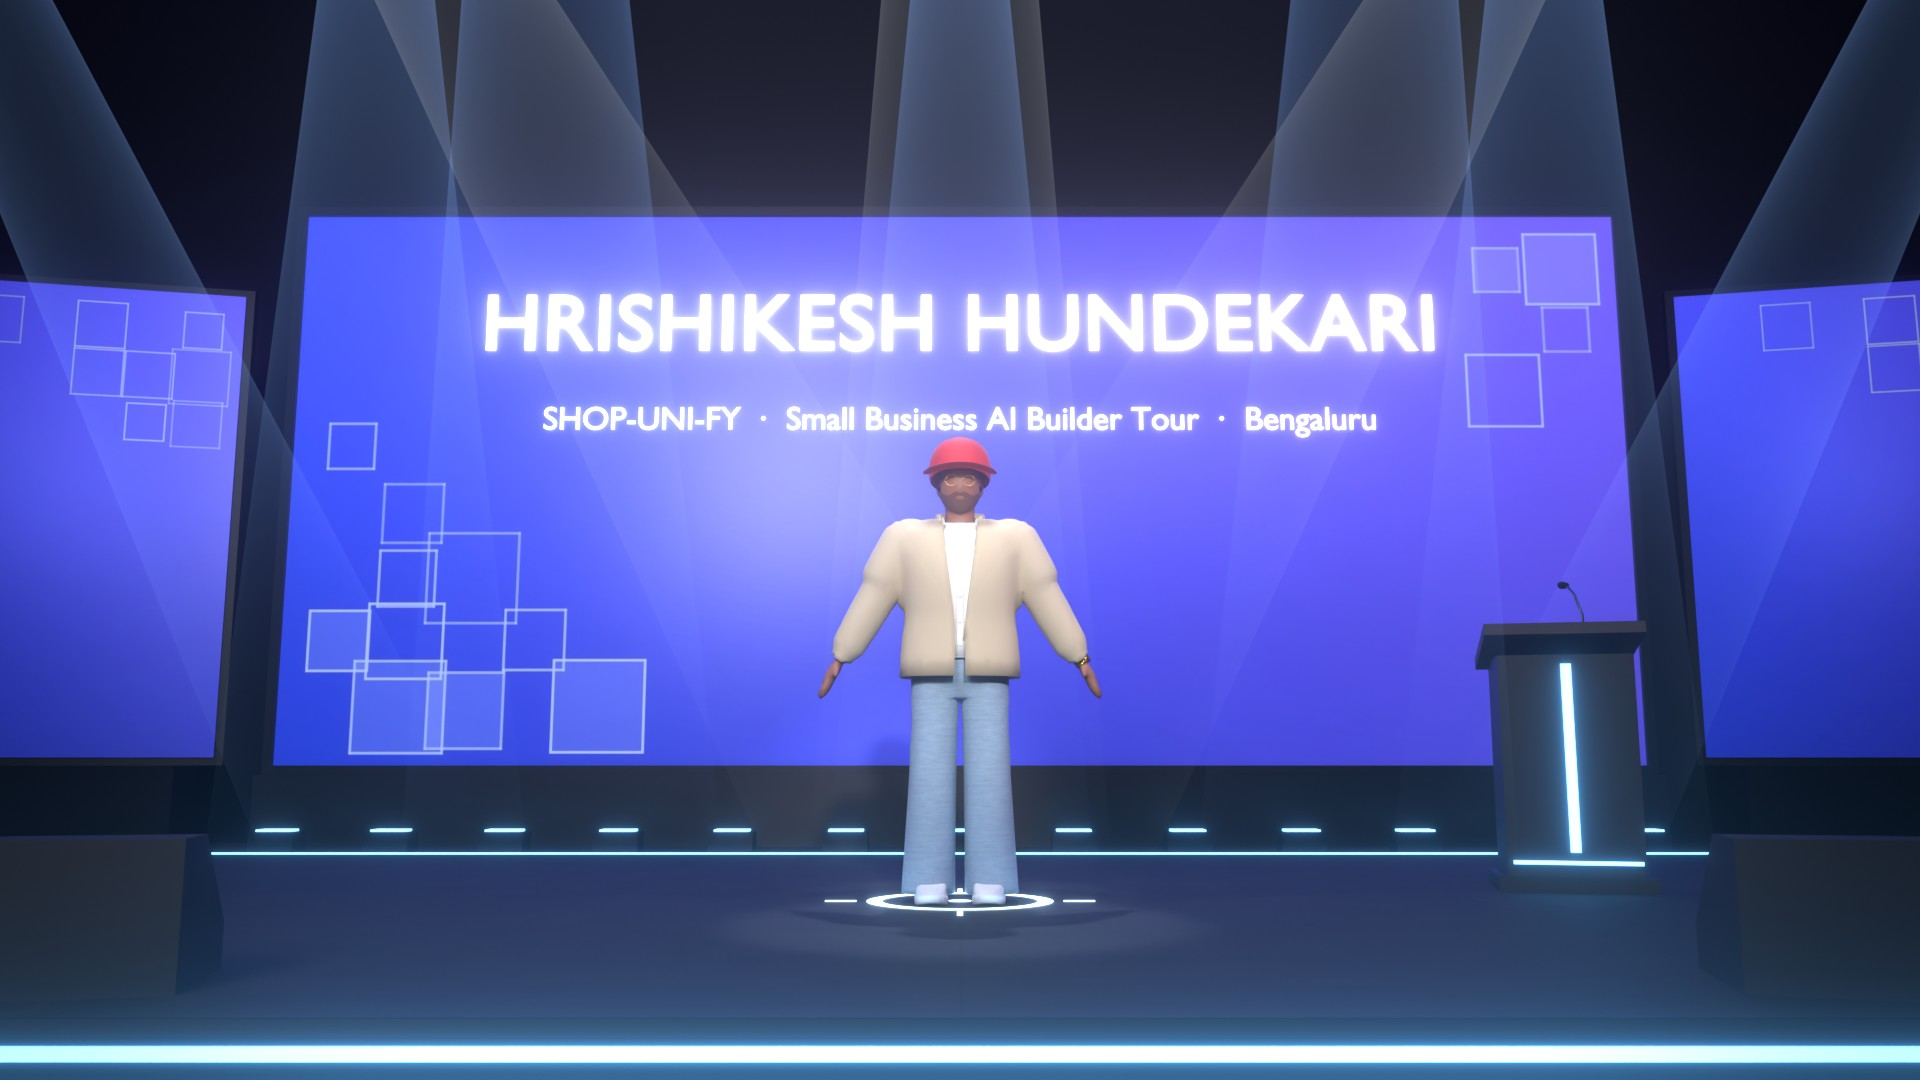
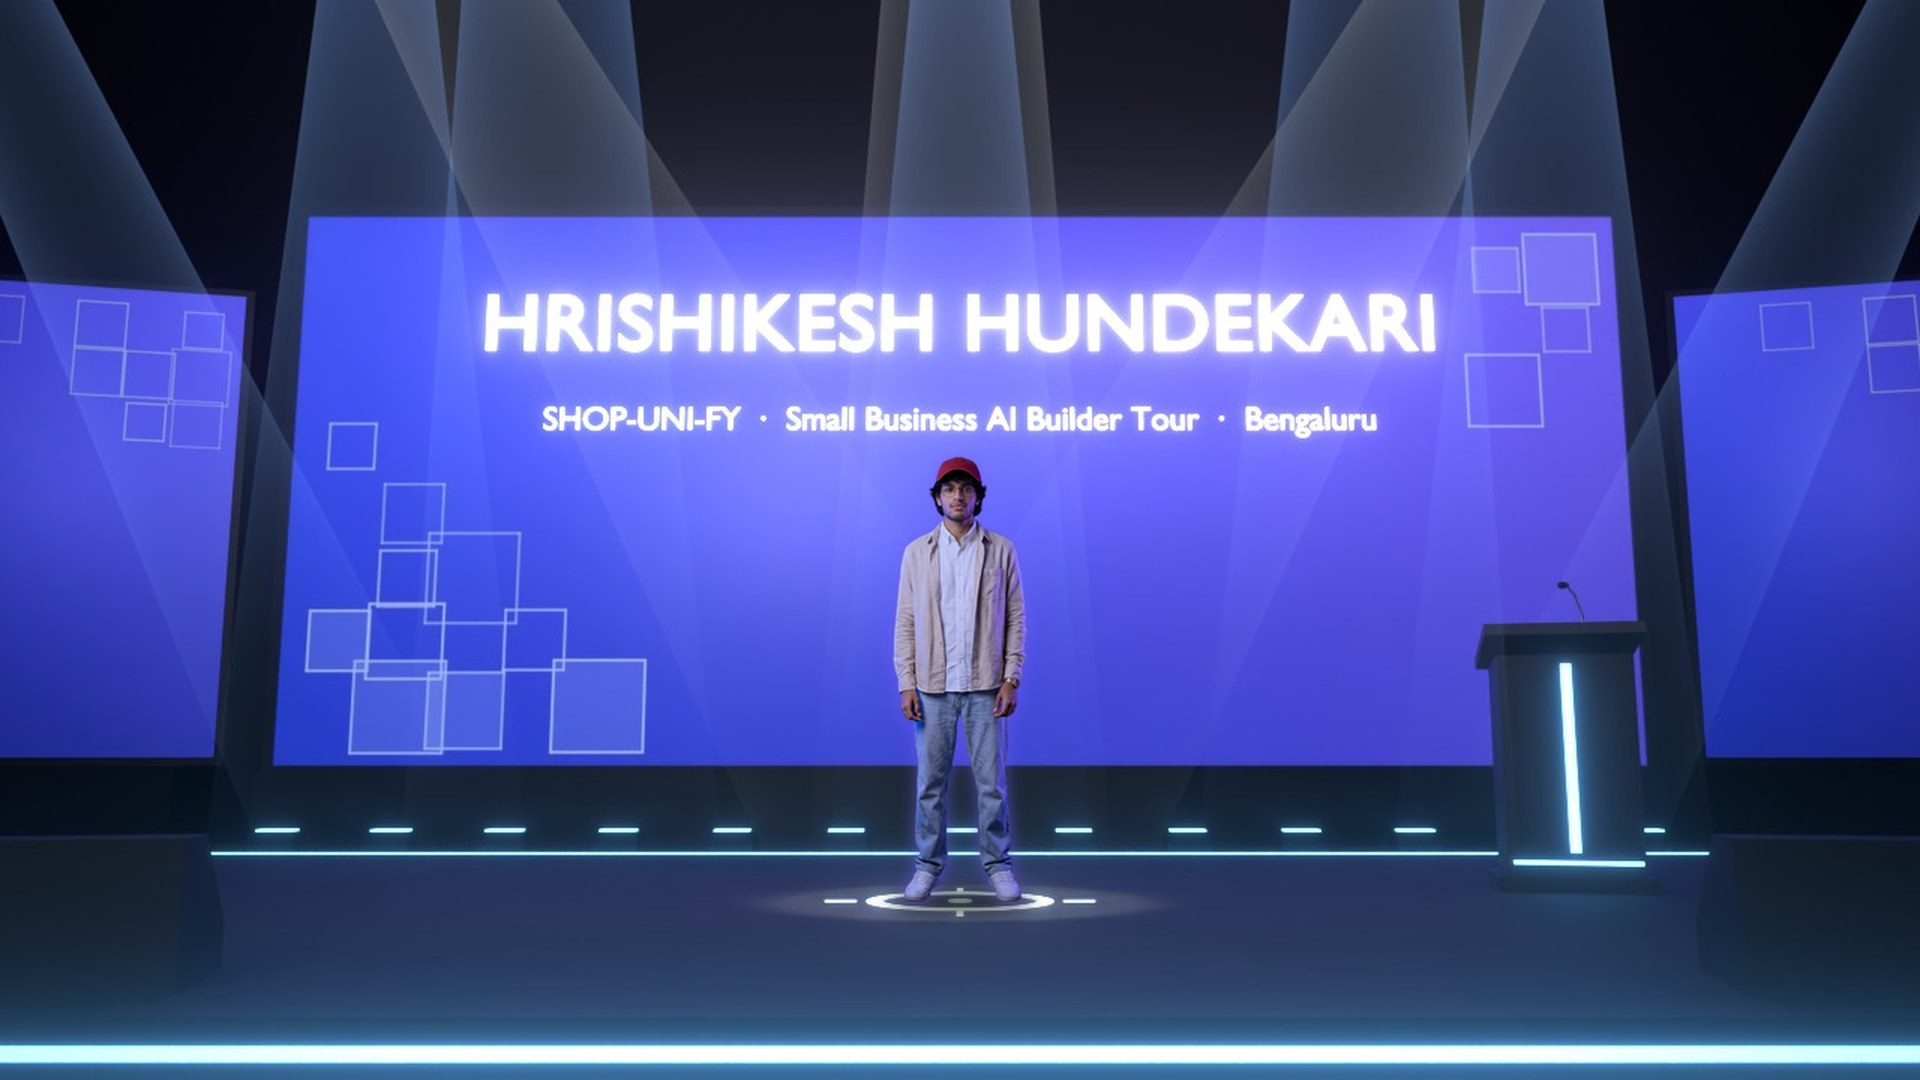
Photoreal hero.jpg (Stage Ready on today's stage); LED wall name high and canvas at the wall's 2.4:1

diff --git a/web/src/scene/ledTexture.ts b/web/src/scene/ledTexture.ts
@@ -38,20 +38,20 @@ function draw(c: HTMLCanvasElement) {
   let size = 230
   g.font = `400 ${size}px ${font}`
   while (g.measureText(SPEAKER).width > W * 0.88 && size > 40) { size -= 8; g.font = `400 ${size}px ${font}` }
-  g.fillText(SPEAKER, W / 2, H * 0.46)
+  g.fillText(SPEAKER, W / 2, H * 0.22) // high on the wall: clear of his head in every framing
   g.shadowBlur = 0
   let s2 = 58
   g.font = `600 ${s2}px 'Inter', system-ui, sans-serif`
   while (g.measureText(TALK_TITLE).width > W * 0.86 && s2 > 20) { s2 -= 2; g.font = `600 ${s2}px 'Inter', system-ui, sans-serif` }
   g.fillStyle = 'rgba(243,238,230,0.92)'
-  g.fillText(TALK_TITLE, W / 2, H * 0.66)
+  g.fillText(TALK_TITLE, W / 2, H * 0.39)
 }
 
 /** Wide canvas for the LED wall: cobalt-to-violet wash, outlined squares, speaker name and talk line. Text only. */
 export function ledTexture(): CanvasTexture {
   if (tex) return tex
   const c = document.createElement('canvas')
-  c.width = 2048; c.height = 1024
+  c.width = 2304; c.height = 960 // 2.4 : 1, the main LED wall's aspect
   draw(c)
   tex = new CanvasTexture(c)
   tex.colorSpace = SRGBColorSpace
